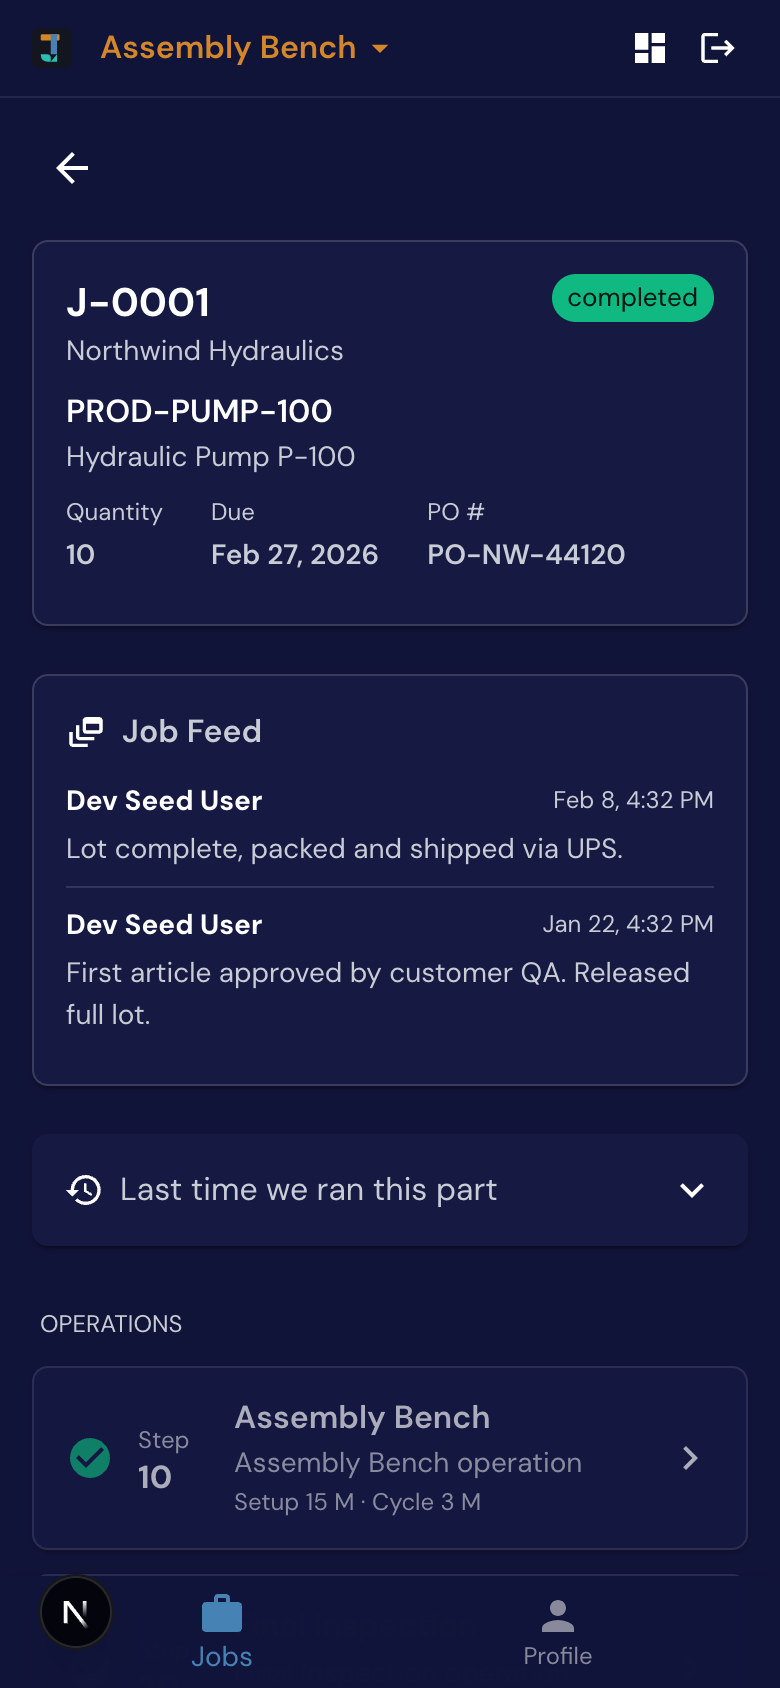
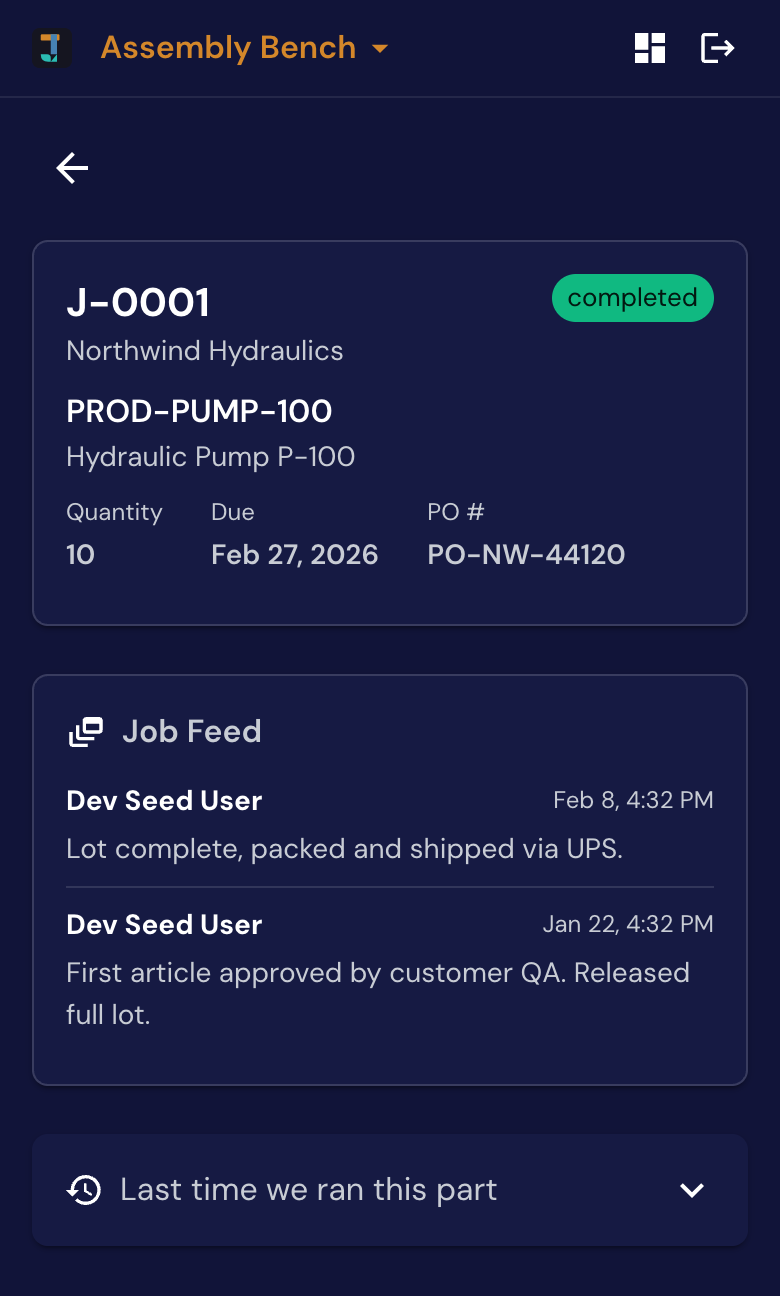
feat(marketing): shop-floor two-phone showcase + cleaned operator/knowledge shots
- Add ShopFloorShowcase — the "person at the machine" moment: copy + bullet
  points beside two staggered phone shots (station queue + a job step). Gives
  the operator/mobile story its own section instead of a desktop Features row.
- Drop the operators row from Features (now jobs / quotes / inventory — three
  desktop tools), so the two stories don't overlap.
- Recapture the operator phone shots (queue + step) on the new lit app canvas
  and crop the Next.js dev badge off all three operator/knowledge screenshots.
- Eyebrow readability: use a solid brand-blue eyebrow color on the dark sections
  instead of a low-contrast gradient.

diff --git a/components/marketing/ShopFloorShowcase.tsx b/components/marketing/ShopFloorShowcase.tsx
@@ -1,0 +1,141 @@
+'use client';
+
+import Box from '@mui/material/Box';
+import Typography from '@mui/material/Typography';
+import CheckRoundedIcon from '@mui/icons-material/CheckRounded';
+import Section from './Section';
+import Reveal from './Reveal';
+import DeviceFrame from './DeviceFrame';
+import { SHOP_FLOOR } from '@/lib/constants/marketing';
+import { eyebrowSx, EYEBROW_COLOR, DISPLAY_FONT } from './marketingStyles';
+
+/**
+ * The operator/shop-floor moment: copy + a bulleted list of what the person at the
+ * machine gets, next to two staggered phone shots (the station queue and a job step).
+ * Focused on the paperless experience; the notes/photos knowledge story is its own
+ * section (KnowledgeCapture) right after, so the two phones tease it without stealing it.
+ */
+export default function ShopFloorShowcase() {
+  return (
+    <Section id="shop-floor" maxWidth="lg">
+      <Box
+        sx={{
+          display: 'flex',
+          flexDirection: { xs: 'column', md: 'row' },
+          alignItems: 'center',
+          gap: { xs: 7, md: 10 },
+        }}
+      >
+        {/* Copy + bullet points */}
+        <Reveal distance={28} sx={{ flex: { md: '0 0 46%' }, width: '100%' }}>
+          <Box>
+            <Typography sx={{ ...eyebrowSx, color: EYEBROW_COLOR, mb: 3 }}>
+              {SHOP_FLOOR.eyebrow}
+            </Typography>
+            <Typography
+              component="h2"
+              sx={{
+                fontFamily: DISPLAY_FONT,
+                fontWeight: 600,
+                fontSize: 'clamp(2rem, 4.4vw, 3.2rem)',
+                lineHeight: 1.05,
+                letterSpacing: '-0.03em',
+                mb: 3,
+              }}
+            >
+              {SHOP_FLOOR.heading}
+            </Typography>
+            <Typography
+              sx={{
+                color: 'rgba(255, 255, 255, 0.76)',
+                fontSize: { xs: '1.05rem', md: '1.2rem' },
+                lineHeight: 1.65,
+                mb: 4,
+                maxWidth: 520,
+              }}
+            >
+              {SHOP_FLOOR.subhead}
+            </Typography>
+            <Box
+              component="ul"
+              sx={{
+                listStyle: 'none',
+                p: 0,
+                m: 0,
+                display: 'flex',
+                flexDirection: 'column',
+                gap: 2.25,
+              }}
+            >
+              {SHOP_FLOOR.points.map((point) => (
+                <Box
+                  component="li"
+                  key={point}
+                  sx={{ display: 'flex', alignItems: 'flex-start', gap: 1.75 }}
+                >
+                  <Box
+                    aria-hidden
+                    sx={{
+                      flexShrink: 0,
+                      mt: '2px',
+                      width: 26,
+                      height: 26,
+                      borderRadius: '50%',
+                      display: 'flex',
+                      alignItems: 'center',
+                      justifyContent: 'center',
+                      bgcolor: 'rgba(127, 179, 224, 0.14)',
+                      border: '1px solid rgba(127, 179, 224, 0.35)',
+                    }}
+                  >
+                    <CheckRoundedIcon sx={{ fontSize: 16, color: EYEBROW_COLOR }} />
+                  </Box>
+                  <Typography
+                    sx={{
+                      color: 'rgba(255, 255, 255, 0.86)',
+                      fontSize: { xs: '1rem', md: '1.08rem' },
+                      lineHeight: 1.5,
+                    }}
+                  >
+                    {point}
+                  </Typography>
+                </Box>
+              ))}
+            </Box>
+          </Box>
+        </Reveal>
+
+        {/* Two phones, staggered for editorial rhythm */}
+        <Reveal
+          delay={140}
+          distance={40}
+          sx={{ flex: { md: '1 1 auto' }, width: '100%' }}
+        >
+          <Box
+            sx={{
+              display: 'flex',
+              justifyContent: 'center',
+              alignItems: 'flex-start',
+              gap: { xs: 1.5, md: 2.5 },
+            }}
+          >
+            <DeviceFrame
+              src={SHOP_FLOOR.images[0]}
+              alt={SHOP_FLOOR.alt}
+              maxWidth={232}
+              glow="rgba(70, 130, 180, 0.22)"
+            />
+            <Box sx={{ mt: { xs: 3, md: 7 } }}>
+              <DeviceFrame
+                src={SHOP_FLOOR.images[1]}
+                alt={SHOP_FLOOR.alt}
+                maxWidth={232}
+                glow="rgba(43, 188, 179, 0.20)"
+              />
+            </Box>
+          </Box>
+        </Reveal>
+      </Box>
+    </Section>
+  );
+}

diff --git a/lib/constants/marketing.ts b/lib/constants/marketing.ts
@@ -78,15 +78,28 @@ export const FEATURES: Feature[] = [
     image: '/screenshots/feature-inventory.png',
     alt: 'Jigged inventory transaction converting feet to inches when removing stock',
   },
-  {
-    key: 'operators',
-    headline: 'A shop-floor view operators will actually use',
-    description:
-      'Operators scan the QR on the traveler, see their step, and tap once to mark it complete. No training manual. No timer to babysit.',
-    image: ['/screenshots/feature-operator-complete.png'],
-    alt: 'Jigged operator view on a phone with a single mark-complete action',
-  },
 ];
+
+// The operator/shop-floor experience gets its own two-phone showcase (ShopFloorShowcase)
+// rather than a row in FEATURES, so it can carry bullet points and two device shots.
+// Kept paperless-experience-focused; the notes/photos knowledge angle is KnowledgeCapture.
+export const SHOP_FLOOR = {
+  eyebrow: 'On the shop floor',
+  heading: 'Built for the person at the machine',
+  subhead:
+    'Operators work from a tablet at their station — no paper travelers, no hunting for the latest revision.',
+  points: [
+    'Scan the QR on the traveler and land on the exact job and step.',
+    'The current drawing and work instructions, right there at the machine.',
+    'One tap to mark a step complete — no timers, no training.',
+    'Runs on any tablet or phone. Nothing to install.',
+  ],
+  images: [
+    '/screenshots/feature-operator-queue.png',
+    '/screenshots/feature-operator-step.png',
+  ],
+  alt: 'The Jigged operator view on a phone — the station job queue and a job step with one-tap mark complete',
+};
 
 export const KNOWLEDGE = {
   eyebrow: 'Knowledge capture',

diff --git a/components/marketing/KnowledgeCapture.tsx b/components/marketing/KnowledgeCapture.tsx
@@ -6,7 +6,7 @@ import Section from './Section';
 import Reveal from './Reveal';
 import DeviceFrame from './DeviceFrame';
 import { KNOWLEDGE } from '@/lib/constants/marketing';
-import { eyebrowSx, gradientTextSx, DISPLAY_FONT } from './marketingStyles';
+import { eyebrowSx, DISPLAY_FONT, EYEBROW_COLOR } from './marketingStyles';
 
 export default function KnowledgeCapture() {
   return (
@@ -22,7 +22,7 @@ export default function KnowledgeCapture() {
         {/* Copy — the emotional core, set large */}
         <Reveal distance={28} sx={{ flex: { md: '0 0 52%' }, width: '100%' }}>
           <Box>
-            <Typography sx={{ ...eyebrowSx, ...gradientTextSx, mb: 3 }}>
+            <Typography sx={{ ...eyebrowSx, color: EYEBROW_COLOR, mb: 3 }}>
               {KNOWLEDGE.eyebrow}
             </Typography>
             <Typography

diff --git a/components/marketing/Hero.tsx b/components/marketing/Hero.tsx
@@ -9,9 +9,9 @@ import Reveal from './Reveal';
 import { HERO } from '@/lib/constants/marketing';
 import {
   gradientButtonSx,
-  gradientTextSx,
   eyebrowSx,
   DISPLAY_FONT,
+  EYEBROW_COLOR,
 } from './marketingStyles';
 
 export default function Hero() {
@@ -73,7 +73,7 @@ export default function Hero() {
           {/* Copy */}
           <Reveal distance={28} sx={{ flex: { md: '0 0 52%' }, width: '100%' }}>
             <Box sx={{ textAlign: { xs: 'center', md: 'left' } }}>
-              <Typography sx={{ ...eyebrowSx, ...gradientTextSx, mb: 3 }}>
+              <Typography sx={{ ...eyebrowSx, color: EYEBROW_COLOR, mb: 3 }}>
                 {HERO.eyebrow}
               </Typography>
               <Typography

diff --git a/components/marketing/marketingStyles.ts b/components/marketing/marketingStyles.ts
@@ -47,6 +47,12 @@ export const eyebrowSx = {
 export const DISPLAY_FONT =
   'var(--font-space-grotesk), var(--font-dm-sans), sans-serif';
 
+// Small labels/eyebrows use a SOLID legible color, never the gradient — a left-to-right
+// gradient sweeps through its steel stop (≈4.3:1) and fails small-text contrast. This
+// bright steel clears 8:1 on the dark indigo background. Gradient text is reserved for
+// large display type only (hero headline, big numerals, section headings).
+export const EYEBROW_COLOR = '#7FB3E0';
+
 // Faint isometric/blueprint grid — the editorial motif, echoing the wireframe hero.
 export const blueprintGridSx = {
   backgroundImage: `

diff --git a/components/marketing/SectionHeading.tsx b/components/marketing/SectionHeading.tsx
@@ -2,7 +2,7 @@
 
 import Box from '@mui/material/Box';
 import Typography from '@mui/material/Typography';
-import { eyebrowSx, gradientTextSx, DISPLAY_FONT } from './marketingStyles';
+import { eyebrowSx, DISPLAY_FONT, EYEBROW_COLOR } from './marketingStyles';
 
 /**
  * Editorial section heading: a large index numeral + eyebrow, then an oversized
@@ -45,7 +45,7 @@ export default function SectionHeading({
           <Typography
             component="span"
             sx={{
-              ...gradientTextSx,
+              color: EYEBROW_COLOR,
               fontFamily: DISPLAY_FONT,
               fontWeight: 600,
               fontSize: '1.1rem',

diff --git a/components/marketing/LandingPageContent.tsx b/components/marketing/LandingPageContent.tsx
@@ -8,6 +8,7 @@ import Hero from './Hero';
 import LogoCloud from './LogoCloud';
 import PainPoints from './PainPoints';
 import Features from './Features';
+import ShopFloorShowcase from './ShopFloorShowcase';
 import KnowledgeCapture from './KnowledgeCapture';
 import HowItWorks from './HowItWorks';
 import EarlyAccess from './EarlyAccess';
@@ -37,6 +38,7 @@ export default function LandingPageContent() {
       <LogoCloud />
       <PainPoints />
       <Features />
+      <ShopFloorShowcase />
       <KnowledgeCapture />
       <HowItWorks />
       <EarlyAccess />

diff --git a/components/marketing/LogoCloud.tsx b/components/marketing/LogoCloud.tsx
@@ -38,7 +38,7 @@ export default function LogoCloud() {
                 letterSpacing: '0.12em',
                 fontSize: '0.72rem',
                 fontWeight: 600,
-                color: 'rgba(255, 255, 255, 0.45)',
+                color: 'rgba(255, 255, 255, 0.62)',
                 textAlign: 'center',
                 flexShrink: 0,
               }}
